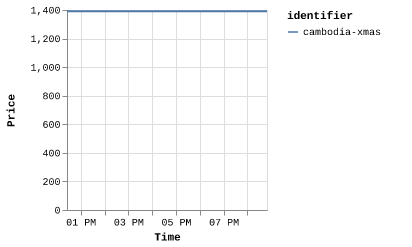
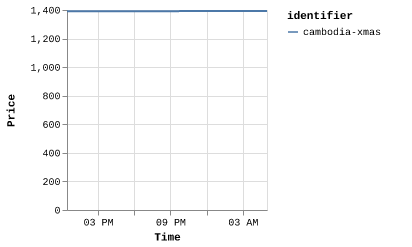
Latest scraping flights: Fri Jul 11 05:00:17 UTC 2025

diff --git a/scrapes/flights/cambodia-xmas.md b/scrapes/flights/cambodia-xmas.md
@@ -1,1 +1,1 @@
-€1,392
+€1,393
